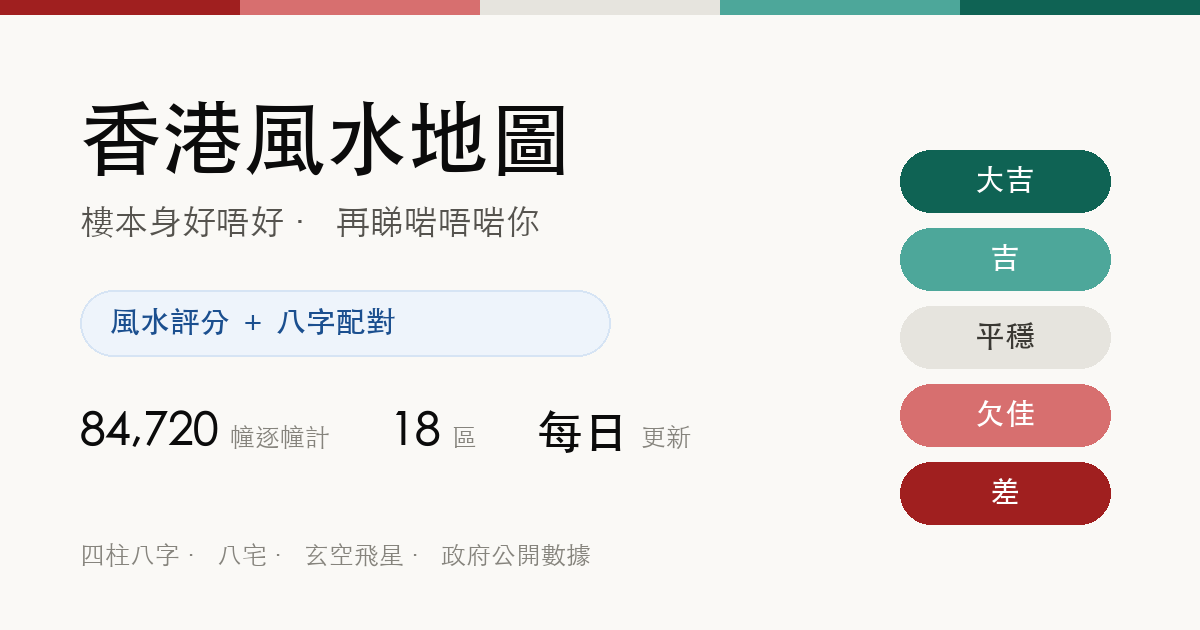
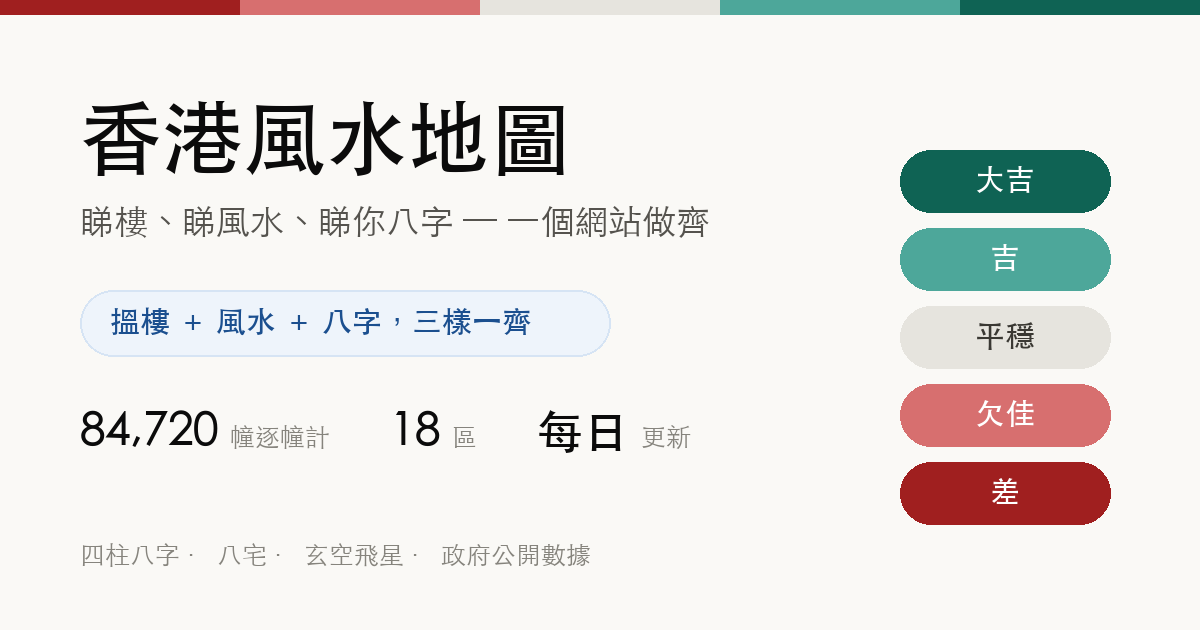
Say all three things we do, not two of them
The pitch has been wrong twice. "八字揀樓" named one layer; "樓本身好唔好 ·
再睇啱唔啱你" named two — but both of those are analysis. What was never
named is the thing underneath: 84,720 real buildings and 658 estates you
can actually search. That number only ever appeared as a boast in the
stats line, so nobody learned their own block is in here.

Three pillars now stated together everywhere the product introduces
itself: tagline, the homepage card (renamed .twolayer → .howto), slide 1
of the walkthrough, share text, meta/OG/Twitter descriptions, the
WebSite schema, llms.txt and the OG image. Each one also says who else
has what — property portals have the buildings, masters have the feng
shui and the BaZi — because "three at once" is the claim, not "we do
feng shui".

The name stays 香港風水地圖: it matches the domain, 風水 is the category
word people actually type, and 地圖 already implies the buildings.

Two number bugs fell out of this. The hero read "全港 213,328 棟樓宇"
while the card three lines below said 84,720 — and /method §5 states in
writing that 213,328 是 "唔係用家見到嗰個". It now says 84,720, matching
the map chip. The "平均 48.5 分" beside it had no source anywhere in the
repo and no pipeline computing it, so it is gone rather than guessed at.

Changed region(s): [[0.0617, 0.3317, 0.5858, 0.3921], [0.0925, 0.4825, 0.4625, 0.5429]]

diff --git a/index.html b/index.html
@@ -5,7 +5,7 @@
 <meta name="viewport" content="width=device-width, initial-scale=1, viewport-fit=cover, maximum-scale=1">
 <meta name="theme-color" content="#0f6354">
 <title>香港風水地圖｜八字揀樓・全港 84,720 幢逐幢計</title>
-<meta name="description" content="打個八字入去，就知全港邊幾幢樓啱你。84,720 幢樓宇逐幢九運風水評分、玄空飛星盤、坐向，數據全部嚟自政府公開資料，每日更新。">
+<meta name="description" content="全港唯一將樓盤數據、風水評分同八字配對夾埋一齊嘅網站。84,720 幢樓、658 個屋苑逐座計九運風水分，再入你出生日期，睇邊幢真係啱你。數據嚟自政府公開資料，每日更新。">
 
 <!-- A link pasted into a Facebook group or WhatsApp is judged entirely on its
      preview card. og:image MUST be an absolute URL — crawlers do not resolve
@@ -17,12 +17,12 @@
      than four characters that happen to be in the title. Dataset is the honest
      type here: what this site actually is, is a computed dataset over every
      building in Hong Kong, with a map on top of it. -->
-<script type="application/ld+json">{"@context": "https://schema.org", "@graph": [{"@type": "WebSite", "@id": "https://hkfengshuimap.com/#website", "url": "https://hkfengshuimap.com/", "name": "香港風水地圖", "alternateName": "Hong Kong Feng Shui Map", "description": "打個八字入去，就知全港邊幾幢樓啱你。84,720 棟樓宇逐幢九運風水評分、玄空飛星盤、坐向，數據嚟自政府公開資料。", "inLanguage": "zh-Hant-HK", "publisher": {"@id": "https://hkfengshuimap.com/#org"}}, {"@type": "Organization", "@id": "https://hkfengshuimap.com/#org", "name": "香港風水地圖", "url": "https://hkfengshuimap.com/", "logo": "https://hkfengshuimap.com/icon-512.png"}, {"@type": "Dataset", "name": "香港樓宇九運風水評分", "description": "全港 84,720 棟樓宇嘅地理環境評分（0–100）同玄空飛星盤，按三元九運第九運（2024–2043）計算。評分方法逆向工程自 2023 年政府公開嘅風水地圖圖層。", "url": "https://hkfengshuimap.com/", "inLanguage": "zh-Hant-HK", "license": "https://hkfengshuimap.com/method", "spatialCoverage": {"@type": "Place", "name": "香港 Hong Kong"}, "creator": {"@id": "https://hkfengshuimap.com/#org"}, "isBasedOn": ["https://portal.csdi.gov.hk/", "https://data.gov.hk/"], "keywords": ["風水", "八字", "揀樓", "玄空飛星", "八宅", "九運", "香港樓宇", "命卦", "寒熱命", "五行"]}, {"@type": "WebApplication", "@id": "https://hkfengshuimap.com/#bazi", "name": "八字揀樓", "url": "https://hkfengshuimap.com/", "applicationCategory": "LifestyleApplication", "operatingSystem": "Web", "isPartOf": {"@id": "https://hkfengshuimap.com/#website"}, "inLanguage": "zh-Hant-HK", "offers": {"@type": "Offer", "price": "0", "priceCurrency": "HKD"}, "description": "輸入出生日期，排出四柱八字，按蘇民峰《寒熱命論》定喜用五行，再用八宅命卦對樓宇向首，喺全港 84,720 幢樓宇度逐幢計出一個只屬於該用戶嘅配對分。可加入屋企人一齊計。", "featureList": ["四柱八字排盤（節氣以 VSOP87 計算，對天文台零差異）", "五行分佈同旺相休囚死", "寒熱命喜用五行（蘇民峰《寒熱命論》）", "本命卦同八宅四吉方（遊年由變爻推導）", "十八區形勢五行（由樓高、地基輪廓、離水距離量出）", "逐幢樓宇配對評分", "一屋人一齊計，東四西四分組提示"]}]}</script>
+<script type="application/ld+json">{"@context": "https://schema.org", "@graph": [{"@type": "WebSite", "@id": "https://hkfengshuimap.com/#website", "url": "https://hkfengshuimap.com/", "name": "香港風水地圖", "alternateName": "Hong Kong Feng Shui Map", "description": "將樓盤數據、風水評分同八字配對夾埋一齊嘅香港網站：全港 84,720 幢樓宇、658 個屋苑可搜尋，逐幢計九運風水評分同玄空飛星盤，再按用戶出生日期配對。數據嚟自政府公開資料。", "inLanguage": "zh-Hant-HK", "publisher": {"@id": "https://hkfengshuimap.com/#org"}}, {"@type": "Organization", "@id": "https://hkfengshuimap.com/#org", "name": "香港風水地圖", "url": "https://hkfengshuimap.com/", "logo": "https://hkfengshuimap.com/icon-512.png"}, {"@type": "Dataset", "name": "香港樓宇九運風水評分", "description": "全港 84,720 棟樓宇嘅地理環境評分（0–100）同玄空飛星盤，按三元九運第九運（2024–2043）計算。評分方法逆向工程自 2023 年政府公開嘅風水地圖圖層。", "url": "https://hkfengshuimap.com/", "inLanguage": "zh-Hant-HK", "license": "https://hkfengshuimap.com/method", "spatialCoverage": {"@type": "Place", "name": "香港 Hong Kong"}, "creator": {"@id": "https://hkfengshuimap.com/#org"}, "isBasedOn": ["https://portal.csdi.gov.hk/", "https://data.gov.hk/"], "keywords": ["風水", "八字", "揀樓", "玄空飛星", "八宅", "九運", "香港樓宇", "命卦", "寒熱命", "五行"]}, {"@type": "WebApplication", "@id": "https://hkfengshuimap.com/#bazi", "name": "八字揀樓", "url": "https://hkfengshuimap.com/", "applicationCategory": "LifestyleApplication", "operatingSystem": "Web", "isPartOf": {"@id": "https://hkfengshuimap.com/#website"}, "inLanguage": "zh-Hant-HK", "offers": {"@type": "Offer", "price": "0", "priceCurrency": "HKD"}, "description": "輸入出生日期，排出四柱八字，按蘇民峰《寒熱命論》定喜用五行，再用八宅命卦對樓宇向首，喺全港 84,720 幢樓宇度逐幢計出一個只屬於該用戶嘅配對分。可加入屋企人一齊計。", "featureList": ["四柱八字排盤（節氣以 VSOP87 計算，對天文台零差異）", "五行分佈同旺相休囚死", "寒熱命喜用五行（蘇民峰《寒熱命論》）", "本命卦同八宅四吉方（遊年由變爻推導）", "十八區形勢五行（由樓高、地基輪廓、離水距離量出）", "逐幢樓宇配對評分", "一屋人一齊計，東四西四分組提示"]}]}</script>
 <meta property="og:type" content="website">
 <meta property="og:site_name" content="香港風水地圖">
 <meta property="og:url" content="https://hkfengshuimap.com/">
 <meta property="og:title" content="邊幢樓啱你八字？香港風水地圖">
-<meta property="og:description" content="兩樣一齊睇：每幢樓本身好唔好（山水方位、坐向），同埋入你出生日期之後，邊幢真係啱你。全港 84,720 幢逐幢計。">
+<meta property="og:description" content="一個網站做齊三樣：全港 84,720 幢樓任你搵、每幢計九運風水分、再用你嘅八字睇邊幢啱你。地產網得樓盤，師傅得風水八字 —— 呢度三樣夾埋。">
 <meta property="og:image" content="https://hkfengshuimap.com/og.png">
 <meta property="og:image:secure_url" content="https://hkfengshuimap.com/og.png">
 <meta property="og:image:type" content="image/png">
@@ -32,7 +32,7 @@
 <meta property="og:locale" content="zh_HK">
 <meta name="twitter:card" content="summary_large_image">
 <meta name="twitter:title" content="香港風水地圖 · 九運">
-<meta name="twitter:description" content="全港 213,328 棟樓宇嘅九運風水評分。睇下你屋企幾多分。">
+<meta name="twitter:description" content="搵樓、睇風水、夾八字，三樣一齊。全港 84,720 幢樓逐幢計九運風水分，再用你嘅八字睇邊幢啱你。">
 <meta name="twitter:image" content="https://hkfengshuimap.com/og.png">
 <!-- Browsers hold on to a favicon far longer than any other asset, and this
      one changed from a placeholder to the real mark. The version suffix is
@@ -356,6 +356,14 @@
   .pg h1{font-size:23px; line-height:1.3; letter-spacing:-.02em; margin:0 0 8px; color:var(--ink)}
   .pg p{font-size:15px; line-height:1.65; margin:0; color:var(--ink2)}
   .pg p b{color:var(--ink); font-weight:650}
+  /* 六版教學逐版教一個功能，行完之後用家識咗六個掣，但唔知件嘢係乜。
+     第一版補一句講清楚成個產品 —— 之後五版先至讀得成一件事而唔係一張
+     功能清單。 */
+  .pg .what{margin-top:14px; padding:11px 13px; border-radius:11px;
+    background:var(--card); border:1px solid var(--line); font-size:14px;
+    line-height:1.6; color:var(--ink2)}
+  .pg .what b{color:var(--ink)}
+  .pg .what u{text-decoration:none; color:var(--brand); font-weight:650}
 
   .dots{display:flex; justify-content:center; gap:8px; margin:20px 0 16px}
   /* .card button 係全寬藍色大掣，同樣 specificity 但排喺後面，所以會贏。
@@ -774,7 +782,7 @@
 
   /* 唔識風水嘅人一入嚟見到一地分數同「九運」兩隻字，係完全唔知發生咩事。
      呢格要喺佢撳任何嘢之前，用人話講完：個分係乜、點解有兩個。 */
-  .twolayer{background:var(--card); border:1px solid var(--line); border-radius:16px;
+  .howto{background:var(--card); border:1px solid var(--line); border-radius:16px;
             padding:15px 16px; margin:16px 0 0}
   .tlh{font-size:12px; font-weight:650; color:var(--ink3); letter-spacing:.04em;
        margin:0 0 12px}
@@ -1346,6 +1354,9 @@
         <h1>你屋企幾多分？</h1>
         <p>全港 <b>84,720</b> 棟樓宇，每一棟都計咗一個風水評分。
            顏色越深綠分越高，越深紅分越低。</p>
+        <p class="what">呢度做緊三樣嘢：<b>搵樓</b>、<b>睇風水</b>、<b>夾你八字</b>。<br>
+           地產網得第一樣，風水師傅同排盤網得後面兩樣 ——
+           <u>三樣一齊做嘅，得呢度。</u></p>
       </section>
 
       <section class="pg">
@@ -3853,14 +3864,14 @@ async function showOverview(){
   const lo=Math.min(...rows.map(a=>a.metric)), hi=Math.max(...rows.map(a=>a.metric));
   sheetBody.innerHTML=`
     <p class="bname">香港風水地圖</p>
-    <!-- 之前寫「八字揀樓」，等於將兩層入面嘅一層當咗全部 —— 人一睇就以為
-         我哋淨係做八字。實際係兩層：樓本身（九運，邊個睇都一樣）＋ 啱唔啱
-         你（八字，因人而異）。兩層加埋先係一個完整答案，所以 tagline 要
-         講返兩層。 -->
-    <p class="tagline">樓本身好唔好 · 再睇啱唔啱你</p>
+    <!-- 改過兩次都仲係差一樣。「八字揀樓」漏咗風水；「樓本身好唔好 ·
+         再睇啱唔啱你」講齊咗兩層分析，但係兩層都係分析 —— 漏咗最實淨
+         嗰樣：真係有 84,720 幢樓喺度俾你搵。嗰個數字之前淨係當個威水
+         數字擺喺 .ben 度，冇人知原來自己幢樓查得到。三樣要平排講。 -->
+    <p class="tagline">睇樓、睇風水、睇你八字 — 一個網站做齊</p>
     <p class="ben">${filtered
       ? `全港 ${rows.reduce((s,a)=>s+a.metric,0).toLocaleString()} 棟評為「${chipLabel()}」`
-      : "全港 213,328 棟樓宇 · 平均 48.5 分 · 每日更新"}</p>
+      : "全港 84,720 幢樓宇 · 658 個屋苑逐座 · 政府數據每日更新"}</p>
     <div class="legend">
       <div class="lbar">${RAMP.map(c=>`<span style="background:${c}"></span>`).join("")}</div>
       <div class="lt"><b>差</b><i>平穩</i><b>大吉</b></div>
@@ -3869,18 +3880,26 @@ async function showOverview(){
     <!-- 「九運」喺呢一版出現咗幾十次，但由頭到尾冇解釋過。唔睇風水嘅人
          唔知咩叫八運九運 —— 我哋一直當咗人人都知。呢格同時做兩件事：
          用人話解釋個分係乜，同埋講清楚我哋係兩層唔係一層。 -->
-    <div class="twolayer">
-      <p class="tlh">呢個網站點用</p>
+    <div class="howto">
+      <p class="tlh">呢個網站做緊三樣嘢</p>
       <div class="tlrow"><span class="tln">1</span>
-        <div><b>每幢樓本身好唔好</b>
-          <em>睇山水方位、周邊環境、樓宇坐向。<u>邊個住都一樣</u>，
-            上面啲顏色就係呢個分。</em></div></div>
+        <div><b>搵樓</b>
+          <em><u>全港 84,720 幢樓、658 個屋苑，逐座分開。</u>打個屋苑名，
+            或者喺地圖撳落去，就搵到你自己幢樓 —— 連樓齡、發展商、
+            最近成交都有。</em></div></div>
       <div class="tlrow"><span class="tln">2</span>
-        <div><b>呢幢樓啱唔啱你</b>
-          <em>入你嘅出生日期，用你自己嘅八字同命卦計。
+        <div><b>睇風水</b>
+          <em>每幢計九運格局分：山水方位、周邊環境、樓宇坐向。
+            <u>邊個住都一樣</u>，上面啲顏色就係呢個分。</em></div></div>
+      <div class="tlrow"><span class="tln">3</span>
+        <div><b>夾八字</b>
+          <em>入你嘅出生日期，用你自己嘅八字同命卦再計一次。
             <u>同一幢樓，唔同人唔同分</u>。</em></div></div>
-      <p class="tlnote"><b>兩樣要一齊睇。</b>格局好嘅樓唔一定啱你，
-        啱你嘅樓格局又未必最好 —— 所以我哋兩個分都俾你，唔溝埋做一個。</p>
+      <p class="tlnote"><b>三樣夾埋先係重點。</b>地產網得樓盤，冇風水；
+        師傅有風水有八字，但冇全港樓宇數據；排盤網得個八字，唔知你想住邊。
+        <u>三樣一齊做嘅，得呢度。</u></p>
+      <p class="tlnote">格局好嘅樓唔一定啱你，啱你嘅樓格局又未必最好 ——
+        所以第 2、3 樣我哋兩個分都俾你，唔溝埋做一個。</p>
 
       <details class="tlwhat">
         <summary><span>咩叫「九運」？</span><span class="chev">▾</span></summary>
@@ -4949,12 +4968,13 @@ function shareList(){
    睇緊嗰幢樓，而嗰幢樓同佢完全無關。 */
 function shareApp(){
   doShare("香港風水地圖",
-    ["香港風水地圖 —— 兩樣一齊睇",
+    ["香港風水地圖 —— 搵樓、風水、八字，三樣一齊",
      "",
-     "1. 每幢樓本身好唔好：山水方位、周邊、坐向。全港 84,720 幢都計咗分。",
-     "2. 呢幢樓啱唔啱你：入你出生日期，用你自己嘅八字計。",
+     "1. 搵樓：全港 84,720 幢、658 個屋苑逐座分開，連樓齡同成交價",
+     "2. 睇風水：每幢計九運格局分，山水方位、坐向、周邊",
+     "3. 夾八字：入你出生日期，同一幢樓唔同人唔同分",
      "",
-     "格局好嘅樓唔一定啱你 —— 所以兩個分都俾你睇。",
+     "地產網得樓盤，師傅得風水同八字 —— 三樣夾埋嘅得呢度。",
      "",
      "免費、免登記、免裝 App。"].join("\n"),
     location.origin + "/", "app");

diff --git a/pipeline/make_og.py b/pipeline/make_og.py
@@ -39,14 +39,14 @@ y = 96
 
 d.text((PAD, y), "香港風水地圖", font=f_title, fill=INK)
 y += 108
-d.text((PAD, y), "樓本身好唔好 · 再睇啱唔啱你", font=f_sub, fill=INK2)
+d.text((PAD, y), "睇樓、睇風水、睇你八字 — 一個網站做齊", font=f_sub, fill=INK2)
 y += 86
 
 # 卡上面嗰句要講返我哋同人唔同嗰樣 —— 分數邊個睇都一樣，啱唔啱你先係
 # 得你一個人有。所以問句係「啱你八字」，唔係「幾多分」。
 d.rounded_rectangle([PAD, y, PAD + 530, y + 66], radius=33, fill=(238, 244, 251),
                     outline=(214, 228, 244), width=2)
-d.text((PAD + 30, y + 16), "風水評分 ＋ 八字配對", font=f_pill, fill=BRAND)
+d.text((PAD + 30, y + 16), "搵樓 ＋ 風水 ＋ 八字，三樣一齊", font=f_pill, fill=BRAND)
 y += 118
 
 stats = [("84,720", "幢逐幢計"), ("18", "區"), ("每日", "更新")]
